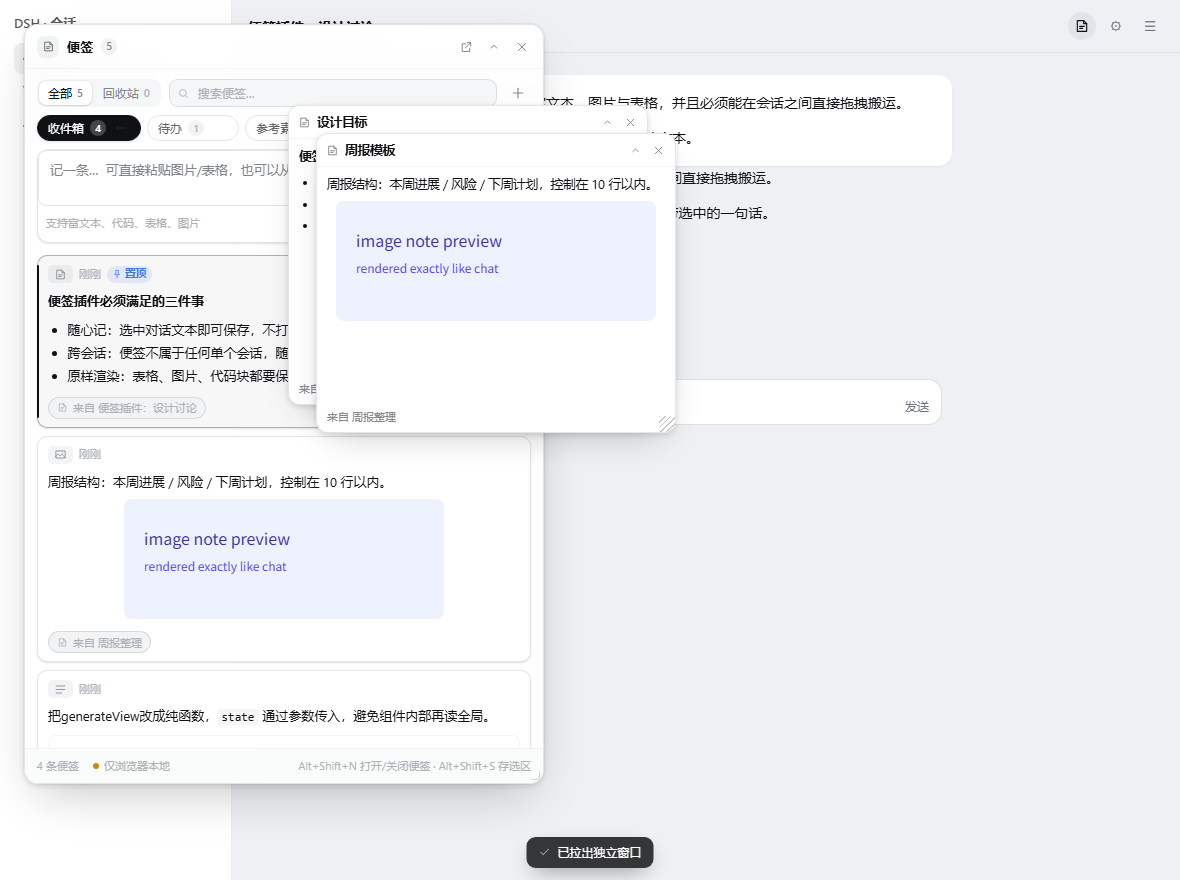
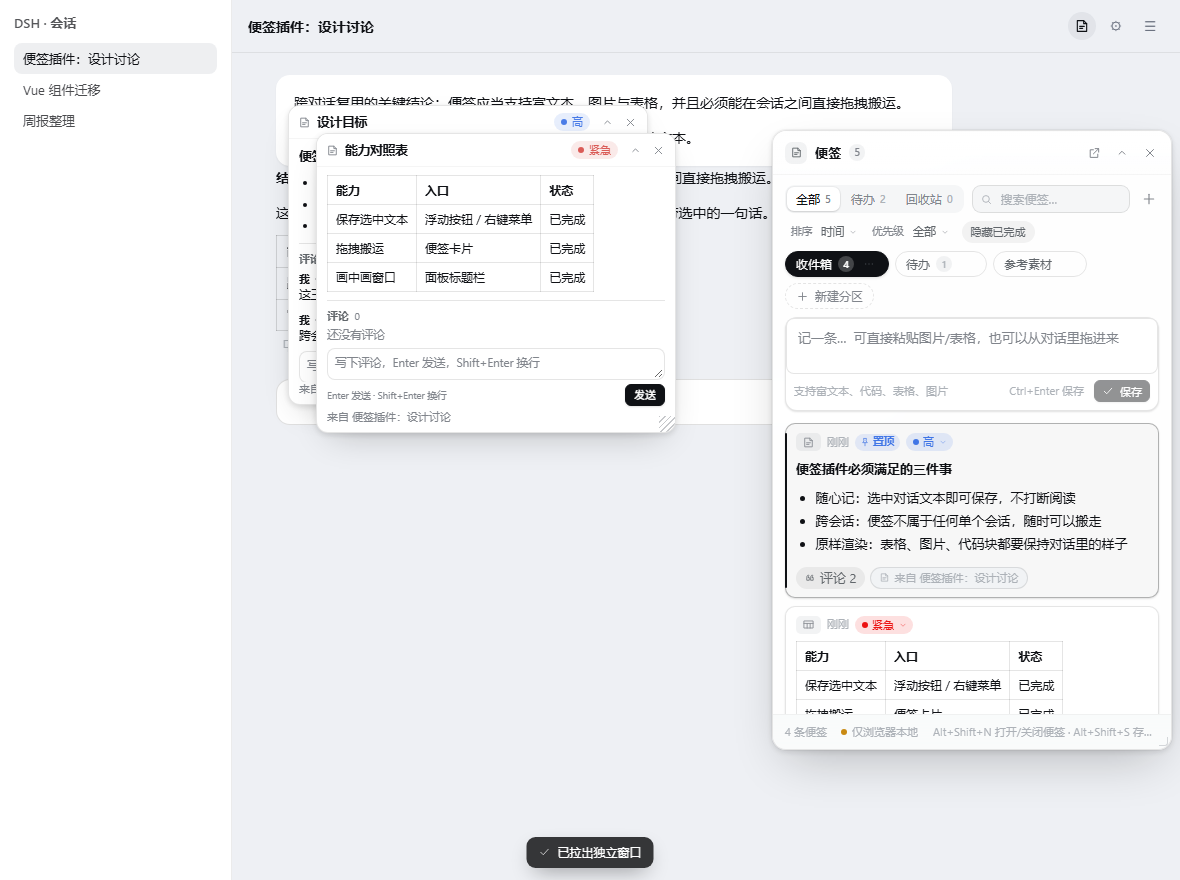
docs: 1.2.0 changelog, refreshed screenshots and market copy
New menu and float-comment screenshots, ten-entry screenshots.json, README/README.en feature notes, version 1.2.0.

diff --git a/README.md b/README.md
@@ -14,6 +14,10 @@ DSH Web UI 的便签插件：**随手记**下对话里的内容，**跨会话搬
 | --- | --- | --- |
 | ![选区菜单](assets/selection-menu.png) | ![拖回对话](assets/drag-to-composer.png) | ![独立窗口](assets/detached-windows.png) |
 
+| 主题化下拉菜单 | 独立窗口里也能评论 |
+| --- | --- |
+| ![下拉菜单](assets/menus-light.png) | ![窗口评论](assets/float-comments.png) |
+
 更多截图：`assets/`（`screenshots.json` 是插件市场的截图清单）。
 
 ## 功能
@@ -25,13 +29,14 @@ DSH Web UI 的便签插件：**随手记**下对话里的内容，**跨会话搬
 - **图片右键存便签**：在对话里渲染出来的图片上右键，菜单里除了「复制图片 / 下载 / 在文件夹中显示」，还多一项「存入便签」——图片按 data URL 存进便签，刷新页面后依然在。
 - **面板随手记**：会话标题栏右上角的便签图标（**在这一排按钮的最左边**，其它插件的按钮在它右边）打开悬浮面板，直接写、直接存；也支持 `Alt+Shift+N`。
 - **分区**：收件箱 + 自定义分区，便签可在分区之间拖动归档，也可拖动排序、拖进回收站。
-- **优先级**：每张便签卡片头部有一个优先级胶囊（紧急 / 高 / 普通 / 低，默认「普通」），点一下即可改；卡片顶部按颜色区分（红 / 蓝 / 灰 / 浅灰），工具栏可按优先级筛选，排序也可从「时间」切成「优先级」，默认仍是时间排序。
+- **优先级**：每张便签卡片头部有一个优先级胶囊（紧急 / 高 / 普通 / 低，默认「普通」），点一下弹出一列选项即可改；卡片顶部按颜色区分（红 / 蓝 / 灰 / 浅灰），工具栏可按优先级筛选，排序也可从「时间」切成「优先级」，默认仍是时间排序。
+- **主题化下拉菜单**：排序、优先级筛选、卡片上的优先级选择都用与面板同一套设计 token 的下拉菜单（浮层挂到 `body`，不会被面板裁切；支持 ↑ / ↓ / Enter / Esc 与外部点击关闭），不再是系统原生的 `select`。
 - **待办清单**：每张便签都能加勾选项（回车连续添加、点勾完成、右上角一键清空已完成）。面板顶部的「待办」标签页把所有便签里的待办聚合在一起，按优先级分组、按所属便签聚合，还能搜索与「隐藏已完成」。
 - **便签评论**：卡片底部点「评论」打开详情浮层，可以像飞书 / 企业微信那样在便签下面留言（Enter 发送、Shift+Enter 换行），评论以气泡线程展示、可删除；卡片上会显示评论数。详情浮层同时给出正文、待办清单、优先级和评论，窗口宽度小时也不会挤。
 - **回收站**：删除是软删除，可恢复、可彻底删除、可清空。
 - **发回对话**：任意便签「插入到输入框」，内容进入当前会话的 composer（纯文本；富内容可先「复制」）；无可用会话时自动退化为复制到剪贴板。
 - **拖回对话**：把便签卡片直接拖到输入框上，松手即插入（和拖放图片 / 文件的动手感一致）：输入框会亮起蓝色落点框并提示「松开鼠标，把便签插入输入框」，内容按 Markdown 还原表格、代码块、列表、引用，图片变成 `![说明](地址)`。
-- **拖出独立窗口**：把便签卡片拖到**输入框以外**的地方松手（对话记录、空白区都行），这张便签就拉出一个独立小窗——可以随便摆在屏幕上，多个窗口并排对照；窗口能拖标题栏移动、拖右下角改大小、折叠、关闭，窗口位置记在 `ui.floaters` 里，刷新页面后还在。落回面板仍是排序 / 归档 / 回收站，落在输入框仍是插入文本，三种手势互不干扰。
+- **拖出独立窗口**：把便签卡片拖到**输入框以外**的地方松手（对话记录、空白区都行），这张便签就拉出一个独立小窗——可以随便摆在屏幕上，多个窗口并排对照；窗口能拖标题栏移动、拖右下角改大小、折叠、关闭，窗口位置记在 `ui.floaters` 里，刷新页面后还在。窗口里同样显示便签正文、优先级和评论，也能直接写评论（与面板内是同一份数据），图片 / 表格照样渲染。落回面板仍是排序 / 归档 / 回收站，落在输入框仍是插入文本，三种手势互不干扰。
 - **置顶窗口**：面板标题栏的画中画按钮，把便签放到系统级置顶小窗（Chrome / Edge 116+），跨应用查看与复制。
 - **多标签同步**：同一浏览器的多个标签页、以及画中画窗口之间实时同步（BroadcastChannel）。
 - **落盘保存**：Host 侧把便签写成一个真实文件（`notes.json`，原子写入并保留上一版 `.bak`），浏览器里只留一份快速副本；换浏览器、清站点数据、换端口都不会丢，面板底部的状态药丸显示「已保存 / 仅浏览器本地」。
@@ -75,14 +80,14 @@ plugin_manager action=install_bundle target=<本仓库的绝对路径>
 
 ```powershell
 node build.mjs            # 拼接 src/*.js -> client.js
-node tests/smoke.mjs      # jsdom 集成冒烟测试（105 项）
+node tests/smoke.mjs      # jsdom 集成冒烟测试（129 项）
 node tests/host.mjs       # Host 半：数据路由 / 文件落盘 / 损坏恢复 / 目录迁移认领（39 项）
 node tests/sync.mjs       # 浏览器 ⇄ 文件 端到端同步（18 项）
-node tests/browser.mjs    # 真实 Chrome 端到端自测（31 项）
+node tests/browser.mjs    # 真实 Chrome 端到端自测（33 项 × 亮/暗两套主题）
 node tests/browser.mjs --dark
 ```
 
-`tests/visual/index.html` 是可视化调试台（`?theme=dark`、`?scene=trash|search|empty|tasks|sheet`、`?chip=1`、`?surface=1`、`?drop=1`、`?float=1`、`?panel=520x800`、`?panel=0` 隐藏面板只留对话、`?debugcss=1`、`?selftest=1`、`?diag=1`、`?host=1` 用假 fetch 模拟已落盘）。`tests/visual/vendor/` 里是离线运行所需的 React 18 UMD 构建与 DSH 的 `design-platform.css` 副本，只为调试台服务，不参与插件构建。
+`tests/visual/index.html` 是可视化调试台（`?theme=dark`、`?scene=trash|search|empty|tasks|sheet|floatcomments|menu`、`?chip=1`、`?surface=1`、`?drop=1`、`?float=1`、`?panel=520x800`、`?panel=0` 隐藏面板只留对话、`?debugcss=1`、`?selftest=1`、`?diag=1`、`?host=1` 用假 fetch 模拟已落盘）。`tests/visual/vendor/` 里是离线运行所需的 React 18 UMD 构建与 DSH 的 `design-platform.css` 副本，只为调试台服务，不参与插件构建。
 
 想看**真实**的落盘状态，用 `node tests/visual/serve.mjs --port=8791` 起一个把 `index.html` 与真实数据路由一起挂上的小服务器，再打开 `http://127.0.0.1:8791/index.html?panel=520x800`：页面走真正的 HTTP，底部状态药丸会显示「已保存」，`notes.json` 落在该次启动的临时 profile 目录里。
 

diff --git a/README.en.md b/README.en.md
@@ -14,12 +14,13 @@ A sticky-note board for the DeepSeek Harness Web GUI: capture something from a c
 - **The board itself.** The notes icon at the top-right of the session header (leftmost in that row) opens a floating panel you can type into directly; `Alt+Shift+N` toggles it.
 - **Sections.** An inbox plus custom sections; drag notes between sections, drag to reorder, drag to the trash zone.
 - **Trash.** Deleting is soft: restore, delete permanently, or empty the trash.
-- **Priorities.** Every card carries a priority pill (urgent / high / normal / low, normal by default) you can change in place; cards are colour-coded, the toolbar can filter by priority, and sorting can switch from time to priority while time stays the default.
+- **Priorities.** Every card carries a priority pill (urgent / high / normal / low, normal by default); clicking it opens a themed menu. Cards are colour-coded, the toolbar can filter by priority, and sorting can switch from time to priority while time stays the default.
+- **Themed dropdowns.** Sorting, the priority filter and the per-card priority picker share the panel's own design tokens: a popover portalled to `body` (so the panel never clips it) with ↑ / ↓ / Enter / Esc and click-outside handling, instead of a native `select`.
 - **To-do lists.** Any note can hold a checklist (Enter adds another item, ticking completes it, one click clears the finished ones). The **To-do** tab aggregates every open item across notes, grouped by note and sorted by priority, with search and a hide-finished switch.
 - **Comments on a note.** The comment chip at the foot of a card opens a detail sheet with the body, the checklist, the priority and a Feishu-style comment thread (Enter sends, Shift+Enter breaks the line); comments can be removed and the card shows their count.
 - **Send back to a conversation.** "Insert into composer" puts the note into the current session's composer (plain text); without an active session it falls back to the clipboard.
 - **Drag back into the composer.** Drag a note card onto the composer and release: a blue drop ring and a "release to insert" pill appear, and the note is inserted at the caret as Markdown (tables, code fences, lists and quotes are restored; images become `![alt](src)`).
-- **Drag out into a window.** Release a note card anywhere outside the composer — the transcript, empty space — and the note becomes its own floating window. Move it by the title bar, resize from the corner, collapse or close it; window geometry is stored in the note document (`ui.floaters`) and survives a reload. Dropping on the panel still means reorder / move / trash, and dropping on the composer still means insert.
+- **Drag out into a window.** Release a note card anywhere outside the composer — the transcript, empty space — and the note becomes its own floating window. Move it by the title bar, resize from the corner, collapse or close it; window geometry is stored in the note document (`ui.floaters`) and survives a reload. The window renders the note body, its priority and its comment thread, and comments can be written right there (same data as the panel). Dropping on the panel still means reorder / move / trash, and dropping on the composer still means insert.
 - **Picture-in-picture.** The PiP button in the panel header puts the board into an always-on-top system window (Chrome / Edge 116+) so notes can be read and copied from other applications.
 - **Every tab in sync.** Multiple tabs of the same browser and the PiP window stay in sync over a BroadcastChannel.
 - **Durable file.** The Host half writes the board to a real file (`notes.json`, atomic write, previous revision kept as `.bak`); the browser keeps a fast copy. Changing browsers, clearing site data or switching ports does not lose notes, and the status pill at the bottom of the panel reports 已保存 / browser only.
@@ -58,10 +59,10 @@ On page load the client GETs `/dsh-sticky-board/data` and merges the file with t
 
 ```sh
 node build.mjs          # concatenate src/*.js -> client.js
-node tests/smoke.mjs    # jsdom integration smoke test (105 checks)
+node tests/smoke.mjs    # jsdom integration smoke test (129 checks)
 node tests/host.mjs     # Host half: route, file writes, corruption recovery, directory adoption (39 checks)
 node tests/sync.mjs     # browser <-> file end-to-end sync (18 checks)
-node tests/browser.mjs  # real Chrome end-to-end self-test (31 checks)
+node tests/browser.mjs  # real Chrome end-to-end self-test (33 checks, light and dark)
 node tests/browser.mjs --dark
 ```
 

diff --git a/CHANGELOG.md b/CHANGELOG.md
@@ -1,5 +1,25 @@
 # Changelog
 
+## 1.2.0
+
+把「筛选 / 排序 / 优先级」这些控件换成面板自己的样式，并让拖出来的独立窗口也能看和写评论。
+
+### 新增
+
+- **主题化下拉菜单**：工具栏的「排序」「优先级筛选」和卡片上的优先级选择，全部从系统原生 `select` 换成 `DSN.SelectMenu` —— 浮层挂在 `body` 上（面板用了 `backdrop-filter`，`position: fixed` 的子节点会被面板当容器定位，所以必须 portal），用面板自己的颜色、圆角、阴影与字号；当前项打勾，选中项加粗，支持 `↑` / `↓` 移动、`Enter` 确认、`Esc` 关闭、点击外部关闭，并且在窗口缩放或滚动时重新定位。
+- **独立窗口里的评论**：拖出来的便签窗口现在显示便签正文 + 优先级 + 评论线程，并带一个紧凑版评论输入框（Enter 发送、Shift+Enter 换行），与面板里写的是同一份数据；窗口头部也显示优先级胶囊。
+
+### 变更
+
+- 优先级选择从原生下拉改为胶囊样式的主题菜单，颜色仍按四档优先级取色。
+- 待办标签页里不再显示「排序」控件（那里固定按便签优先级分组）。
+- 「隐藏已完成」按钮恢复为浅色药丸底，与同一行的下拉控件对齐。
+
+### 工程
+
+- 外部 bundle 现在会 `require('react-dom')`（`PLATFORM_MODULES` 本来就提供），用于 `createPortal`。
+- 测试：jsdom 冒烟 129 项、Host 39 项、同步 18 项、真实 Chrome 33 项 × 亮/暗两套主题；调试台新增 `?scene=floatcomments`、`?scene=menu`，`cdp-shot.mjs` 新增 `--eval` 便于一次性探查 store/DOM。
+
 ## 1.1.0
 
 三个围绕「便签本身能承载多少信息」的新能力，外加更完整的持久化与交互打磨。
